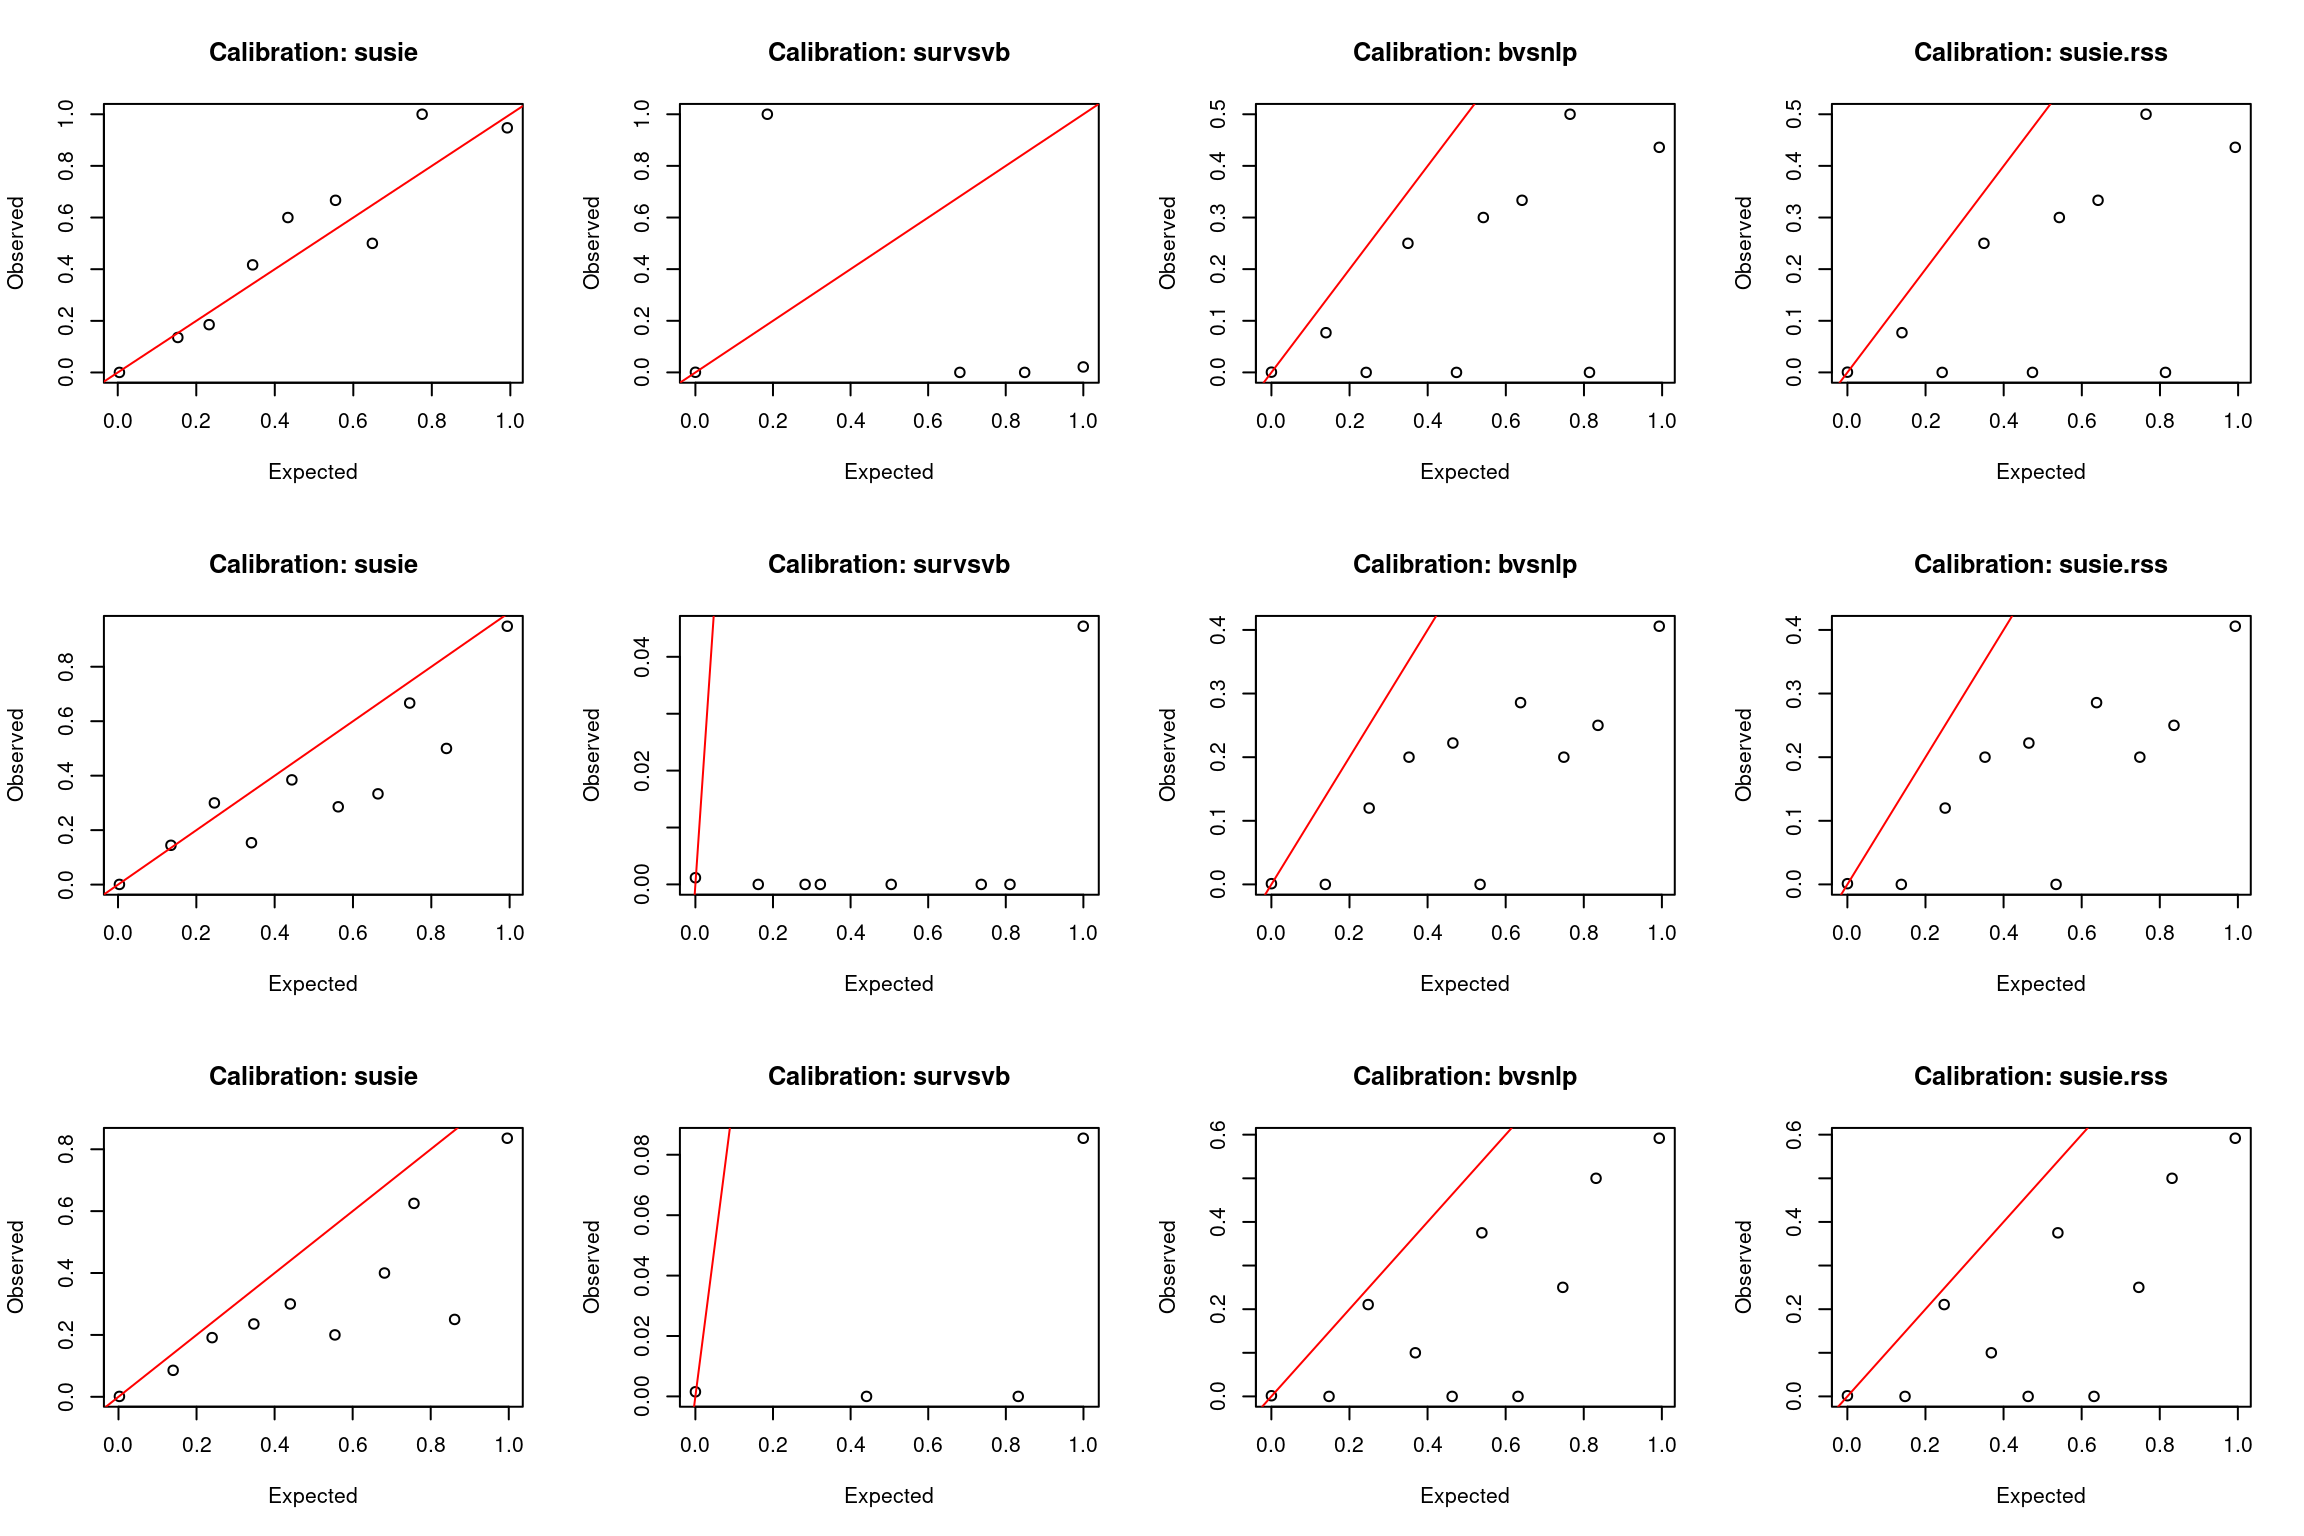
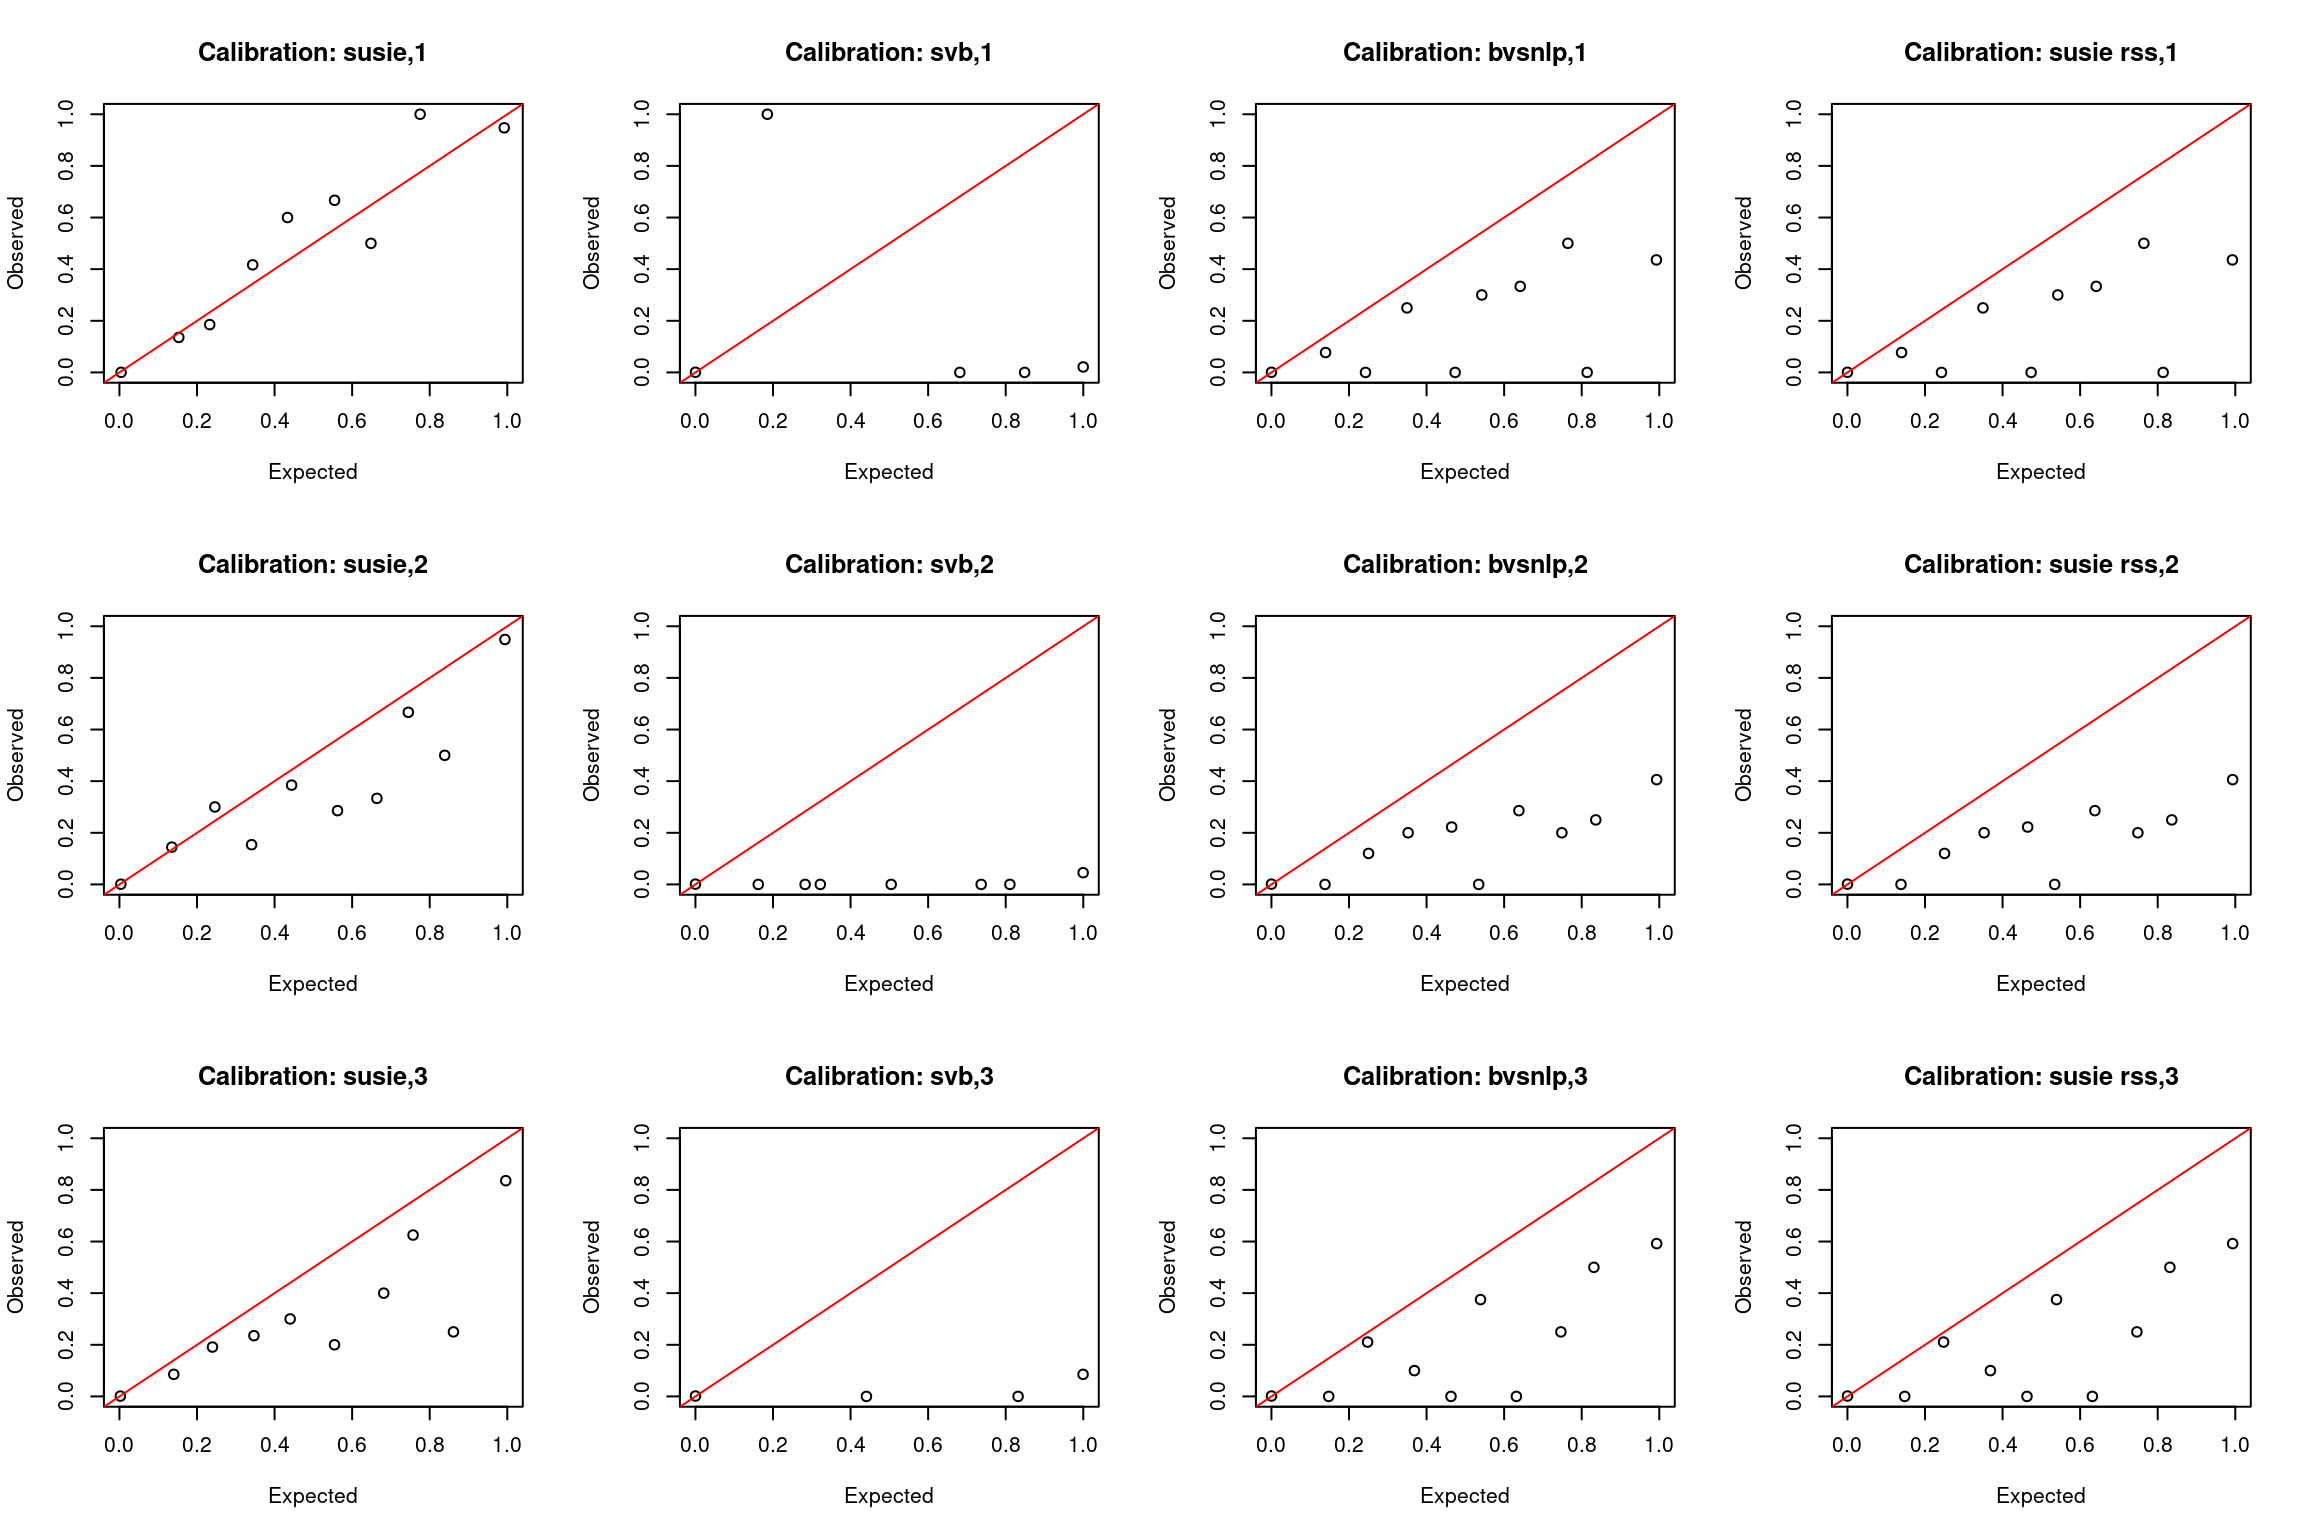
Build site.

diff --git a/docs/calibration_large_sample.html b/docs/calibration_large_sample.html
@@ -522,15 +522,15 @@ project makes it easier to run your code on other machines.</p>
 <div class="panel panel-default">
 <div class="panel-heading">
 <p class="panel-title">
-<a data-toggle="collapse" data-parent="#workflowr-checks" href="#strongRepositoryversionstrongahrefhttpsgithubcomyunqiyang0215survivalsusietree3a3ae9d45e698de6b70b2ad73c529c13fd05718ctargetblank3a3ae9da">
+<a data-toggle="collapse" data-parent="#workflowr-checks" href="#strongRepositoryversionstrongahrefhttpsgithubcomyunqiyang0215survivalsusietree5f167fe9a7c2f65b4114ab365a8d31c4ad17b31ftargetblank5f167fea">
 <span class="glyphicon glyphicon-ok text-success"
 aria-hidden="true"></span> <strong>Repository version:</strong>
-<a href="https://github.com/yunqiyang0215/survival-susie/tree/3a3ae9d45e698de6b70b2ad73c529c13fd05718c" target="_blank">3a3ae9d</a>
+<a href="https://github.com/yunqiyang0215/survival-susie/tree/5f167fe9a7c2f65b4114ab365a8d31c4ad17b31f" target="_blank">5f167fe</a>
 </a>
 </p>
 </div>
 <div
[2 lines of base64/hex data omitted]
 class="panel-collapse collapse">
 <div class="panel-body">
 <p>
@@ -540,7 +540,7 @@ reproducibility.
 </p>
 <p>
 The results in this page were generated with repository version
-<a href="https://github.com/yunqiyang0215/survival-susie/tree/3a3ae9d45e698de6b70b2ad73c529c13fd05718c" target="_blank">3a3ae9d</a>.
+<a href="https://github.com/yunqiyang0215/survival-susie/tree/5f167fe9a7c2f65b4114ab365a8d31c4ad17b31f" target="_blank">5f167fe</a>.
 See the <em>Past versions</em> tab to see a history of the changes made
 to the R Markdown and HTML files.
 </p>
@@ -616,6 +616,40 @@ Message
 Rmd
 </td>
 <td>
+<a href="https://github.com/yunqiyang0215/survival-susie/blob/5f167fe9a7c2f65b4114ab365a8d31c4ad17b31f/analysis/calibration_large_sample.Rmd" target="_blank">5f167fe</a>
+</td>
+<td>
+yunqi yang
+</td>
+<td>
+2024-02-20
+</td>
+<td>
+wflow_publish("analysis/calibration_large_sample.Rmd")
+</td>
+</tr>
+<tr>
+<td>
+html
+</td>
+<td>
+<a href="https://rawcdn.githack.com/yunqiyang0215/survival-susie/5b2278cf319ba6232f3929db64151d9f2b0fb8fb/docs/calibration_large_sample.html" target="_blank">5b2278c</a>
+</td>
+<td>
+yunqi yang
+</td>
+<td>
+2024-02-20
+</td>
+<td>
+Build site.
+</td>
+</tr>
+<tr>
+<td>
+Rmd
+</td>
+<td>
 <a href="https://github.com/yunqiyang0215/survival-susie/blob/3a3ae9d45e698de6b70b2ad73c529c13fd05718c/analysis/calibration_large_sample.Rmd" target="_blank">3a3ae9d</a>
 </td>
 <td>
@@ -649,6 +683,12 @@ wflow_publish("analysis/calibration_large_sample.Rmd")
   }
   res2 = na.omit(res)
   return(res2)
+}
+
+plot_calibration &lt;- function(dat.calibration, method, num_effect){
+  plot(dat.calibration[,2], dat.calibration[,3], xlim = c(0, 1), ylim = c(0, 1),
+       main= paste0(&quot;Calibration: &quot;, method, &quot;,&quot;, num_effect), xlab=&quot;Expected&quot;, ylab=&quot;Observed&quot;)
+  abline(a = 0, b = 1, col = &quot;red&quot;)
 }</code></pre>
 <pre class="r"><code>susie = readRDS(&quot;/project2/mstephens/yunqiyang/surv-susie/dsc202401/susie.rds&quot;)
 survsvb = readRDS(&quot;/project2/mstephens/yunqiyang/surv-susie/dsc202401/survsvb.rds&quot;)
@@ -657,7 +697,7 @@ rss = readRDS(&quot;/project2/mstephens/yunqiyang/surv-susie/dsc202401/susie_rss
 <pre class="r"><code>par(mfrow = c(3,4))
 for (num in 1:3){
   indx = which(susie$simulate.cor_type == &quot;real&quot; &amp; susie$simulate.num_effect == num)
-  is_effect = unlist(lapply(indx, function(x) susie$simulate.is_effect[[x]]))
+  is_effect = unlist(lapply(indx, function(x) bvsnlp$simulate.is_effect[[x]]))
   pip.susie = unlist(lapply(indx, function(x) susie$susie.pip[[x]]))
   pip.survsvb = unlist(lapply(indx, function(x) survsvb$svb.pip[[x]]))
   pip.bvsnlp = unlist(lapply(indx, function(x) bvsnlp$bvsnlp.pip[[x]]))
@@ -665,25 +705,59 @@ for (num in 1:3){
   
   # Calibration plot for pip.susie
   calibration.susie = pip_calibration(pip.susie, is_effect)
-  plot(calibration.susie[,2],calibration.susie[,3], main=&quot;Calibration: susie&quot;, xlab=&quot;Expected&quot;, ylab=&quot;Observed&quot;)
-  abline(a = 0, b = 1, col = &quot;red&quot;)
+  plot_calibration(calibration.susie, method = &quot;susie&quot;, num_effect = num)
   
   # Calibration plot for pip.svb
   calibration.survsvb = pip_calibration(pip.survsvb, is_effect)
-  plot(calibration.survsvb[,2], calibration.survsvb[,3], main=&quot;Calibration: survsvb&quot;, xlab=&quot;Expected&quot;, ylab=&quot;Observed&quot;)
-  abline(a = 0, b = 1, col = &quot;red&quot;)
+  plot_calibration(calibration.survsvb, method = &quot;svb&quot;, num_effect = num)
   
   # Calibration plot for pip.bvsnlp
   calibration.bvsnlp = pip_calibration(pip.bvsnlp, is_effect)
-  plot(calibration.bvsnlp[,2], calibration.bvsnlp[,3], main=&quot;Calibration: bvsnlp&quot;, xlab=&quot;Expected&quot;, ylab=&quot;Observed&quot;)
-  abline(a = 0, b = 1, col = &quot;red&quot;)
+  plot_calibration(calibration.bvsnlp, method = &quot;bvsnlp&quot;, num_effect = num)
   
   # Calibration plot for pip.rss
   calibration.rss = pip_calibration(pip.rss, is_effect)
-  plot(calibration.rss[,2], calibration.rss[,3], main=&quot;Calibration: susie.rss&quot;, xlab=&quot;Expected&quot;, ylab=&quot;Observed&quot;)
-  abline(a = 0, b = 1, col = &quot;red&quot;)
+  plot_calibration(calibration.rss, method = &quot;susie rss&quot;, num_effect = num)
+  
 }</code></pre>
 <p><img src="figure/calibration_large_sample.Rmd/unnamed-chunk-3-1.png" width="1152" style="display: block; margin: auto;" /></p>
+<p>
+<button type="button" class="btn btn-default btn-xs btn-workflowr btn-workflowr-fig" data-toggle="collapse" data-target="#fig-unnamed-chunk-3-1">
+Past versions of unnamed-chunk-3-1.png
+</button>
+</p>
+<div id="fig-unnamed-chunk-3-1" class="collapse">
+<div class="table-responsive">
+<table class="table table-condensed table-hover">
+<thead>
+<tr>
+<th>
+Version
+</th>
+<th>
+Author
+</th>
+<th>
+Date
+</th>
+</tr>
+</thead>
+<tbody>
+<tr>
+<td>
+<a href="https://github.com/yunqiyang0215/survival-susie/blob/5b2278cf319ba6232f3929db64151d9f2b0fb8fb/docs/figure/calibration_large_sample.Rmd/unnamed-chunk-3-1.png" target="_blank">5b2278c</a>
+</td>
+<td>
+yunqi yang
+</td>
+<td>
+2024-02-20
+</td>
+</tr>
+</tbody>
+</table>
+</div>
+</div>
 <br>
 <p>
 <button type="button" class="btn btn-default btn-workflowr btn-workflowr-sessioninfo" data-toggle="collapse" data-target="#workflowr-sessioninfo" style="display: block;">
